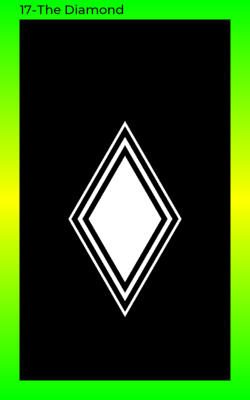
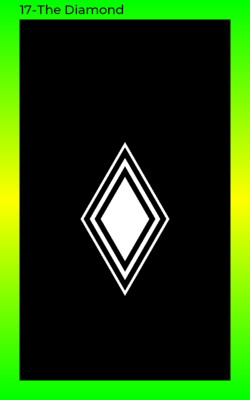
Resizes The Diamond

Changed region(s): [[0.28, 0.3, 0.728, 0.81]]

diff --git a/README.md b/README.md
@@ -21,3 +21,4 @@ Practicing shaders in openframeworks.  [http://pixelspiritdeck.com] is where I g
 ![The Temple](https://github.com/RussTheAerialist/ofPixelSpiritDeck/raw/master/images/15-TheTemple.png)
 ![The Summit](https://github.com/RussTheAerialist/ofPixelSpiritDeck/raw/master/images/16-TheSummit.png)
 ![The Diamond](https://github.com/RussTheAerialist/ofPixelSpiritDeck/raw/master/images/17-TheDiamond.png)
+![The Diamond](https://github.com/RussTheAerialist/ofPixelSpiritDeck/raw/master/images/17-TheDiamond.png)
